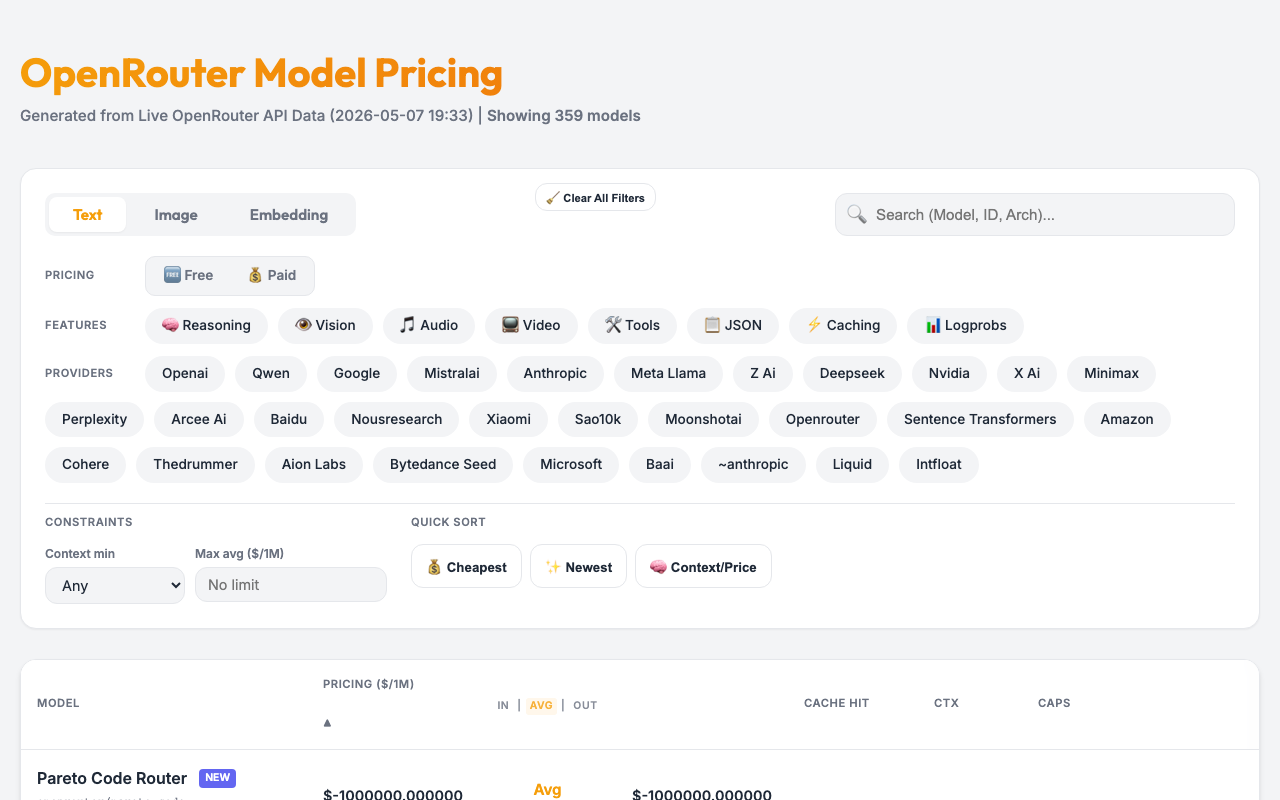
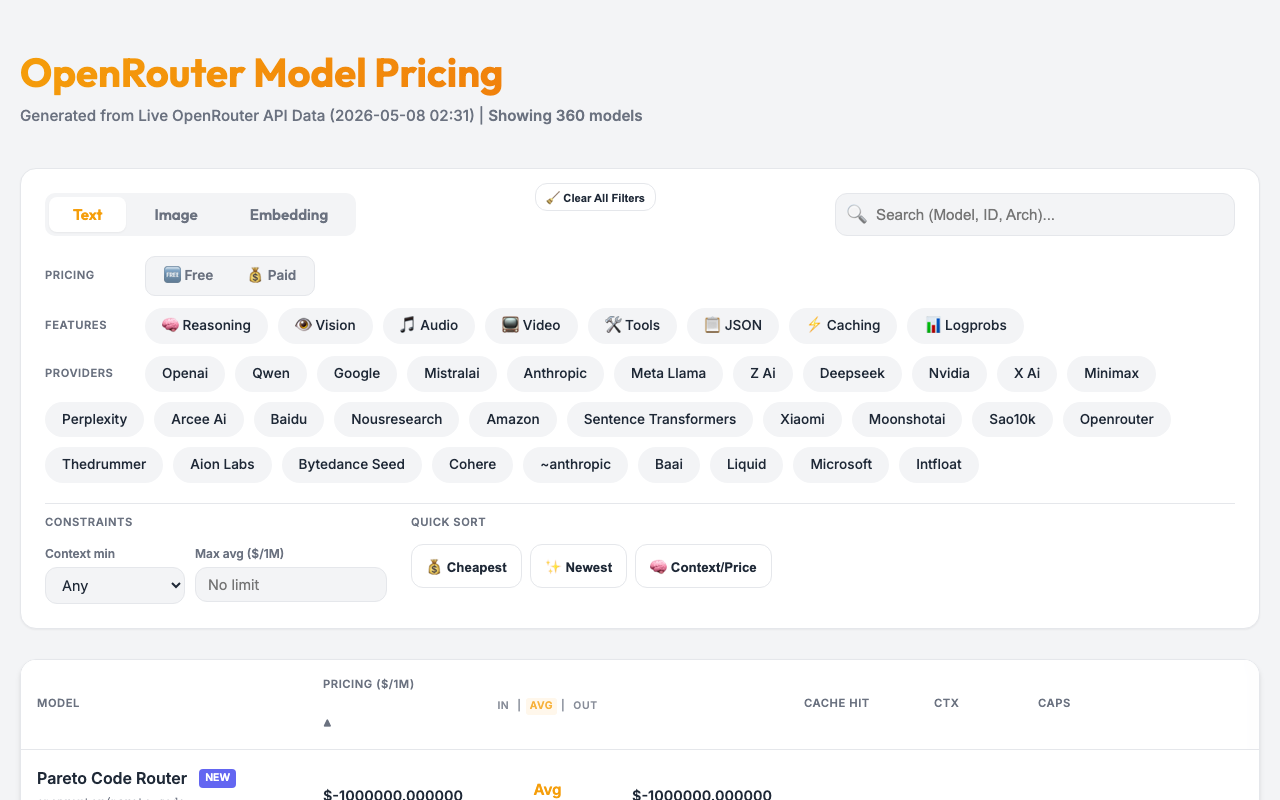
chore: automated pricing update (2026-05-08 02:30:52)
🆕 Added Models (2): google/gemini-3.1-flash-lite, inclusionai/ling-2.6-1t
❌ Removed Models (1): inclusionai/ling-2.6-1t:free
🔄 Changed Models (2): moonshotai/kimi-k2.5, qwen/qwen3.5-9b

diff --git a/docs/index.html b/docs/index.html
@@ -668,7 +668,7 @@
     <div class="container">
         <header>
             <h1>OpenRouter Model Pricing</h1>
-            <div class="meta">Generated from Live OpenRouter API Data (2026-05-07 19:33)</div>
+            <div class="meta">Generated from Live OpenRouter API Data (2026-05-08 02:31)</div>
         </header>
 
         <div class="controls">
@@ -697,7 +697,7 @@
                                 <option value="0">Any</option>
                                 <option value="32768">32k+</option>
                                 <option value="128000">125k+</option>
-                                <option value="131072">128k+</option>
+                                <option value="159744">156k+</option>
                                 <option value="262144">256k+</option>
                                 <option value="1000448">977k+</option>
                                 <option value="1048576">1M+</option>
@@ -734,6 +734,73 @@
     <script>
         window.openRouterModels = {
   "text": [
+    {
+      "id": "google/gemini-3.1-flash-lite",
+      "canonical_slug": "google/gemini-3.1-flash-lite-20260507",
+      "hugging_face_id": null,
+      "name": "Google: Gemini 3.1 Flash Lite",
+      "created": 1778168828,
+      "description": "Gemini 3.1 Flash Lite is Google\u2019s GA high-efficiency multimodal model optimized for low-latency, high-volume workloads. It supports text, image, video, audio, and PDF inputs, and is designed for lightweight agentic...",
+      "context_length": 1048576,
+      "architecture": {
+        "modality": "text+image+file+audio+video->text",
+        "input_modalities": [
+          "text",
+          "image",
+          "video",
+          "file",
+          "audio"
+        ],
+        "output_modalities": [
+          "text"
+        ],
+        "tokenizer": "Gemini",
+        "instruct_type": null
+      },
+      "pricing": {
+        "prompt": "0.00000025",
+        "completion": "0.0000015",
+        "image": "0.00000025",
+        "audio": "0.0000005",
+        "web_search": "0.014",
+        "internal_reasoning": "0.0000015",
+        "input_cache_read": "0.000000025",
+        "input_cache_write": "0.00000008333333333333334"
+      },
+      "top_provider": {
+        "context_length": 1048576,
+        "max_completion_tokens": 65536,
+        "is_moderated": false
+      },
+      "per_request_limits": null,
+      "supported_parameters": [
+        "include_reasoning",
+        "max_tokens",
+        "reasoning",
+        "response_format",
+        "seed",
+        "stop",
+        "structured_outputs",
+        "temperature",
+        "tool_choice",
+        "tools",
+        "top_p"
+      ],
+      "default_parameters": {
+        "temperature": null,
+        "top_p": null,
+        "top_k": null,
+        "frequency_penalty": null,
+        "presence_penalty": null,
+        "repetition_penalty": null
+      },
+      "supported_voices": null,
+      "knowledge_cutoff": null,
+      "expiration_date": null,
+      "links": {
+        "details": "/api/v1/models/google/gemini-3.1-flash-lite-20260507/endpoints"
+      }
+    },
     {
       "id": "baidu/cobuddy:free",
       "canonical_slug": "baidu/cobuddy-20260430",
@@ -2226,10 +2293,10 @@
       }
     },
     {
-      "id": "inclusionai/ling-2.6-1t:free",
+      "id": "inclusionai/ling-2.6-1t",
       "canonical_slug": "inclusionai/ling-2.6-1t-20260423",
       "hugging_face_id": null,
-      "name": "inclusionAI: Ling-2.6-1T (free)",
+      "name": "inclusionAI: Ling-2.6-1T",
       "created": 1776948238,
       "description": "Ling-2.6-1T is an instant (instruct) model from inclusionAI and the company\u2019s trillion-parameter flagship, designed for real-world agents that require fast execution and high efficiency at scale. It uses a \u201cfast...",
       "context_length": 262144,
@@ -2245,8 +2312,9 @@
         "instruct_type": null
       },
       "pricing": {
-        "prompt": "0",
-        "completion": "0"
+        "prompt": "0.0000003",
+        "completion": "0.0000025",
+        "input_cache_read": "0.00000006"
       },
       "top_provider": {
         "context_length": 262144,
@@ -2279,7 +2347,7 @@
       },
       "supported_voices": null,
       "knowledge_cutoff": null,
-      "expiration_date": "2026-05-07",
+      "expiration_date": null,
       "links": {
         "details": "/api/v1/models/inclusionai/ling-2.6-1t-20260423/endpoints"
       }
@@ -4232,12 +4300,12 @@
         "instruct_type": null
       },
       "pricing": {
-        "prompt": "0.0000001",
+        "prompt": "0.00000004",
         "completion": "0.00000015"
       },
       "top_provider": {
         "context_length": 262144,
-        "max_completion_tokens": null,
+        "max_completion_tokens": 81920,
         "is_moderated": false
       },
       "per_request_limits": null,
@@ -4252,6 +4320,7 @@
         "reasoning",
         "repetition_penalty",
         "response_format",
+        "seed",
         "stop",
         "structured_outputs",
         "temperature",
@@ -5942,7 +6011,6 @@
         "logprobs",
         "max_tokens",
         "min_p",
-        "parallel_tool_calls",
         "presence_penalty",
         "reasoning",
         "repetition_penalty",
@@ -22599,7 +22667,7 @@
     }
   ]
 };
-        window.providerOptions = ['openai', 'qwen', 'google', 'mistralai', 'anthropic', 'meta-llama', 'z-ai', 'deepseek', 'nvidia', 'x-ai', 'minimax', 'perplexity', 'arcee-ai', 'baidu', 'nousresearch', 'xiaomi', 'sao10k', 'moonshotai', 'openrouter', 'sentence-transformers', 'amazon', 'cohere', 'thedrummer', 'aion-labs', 'bytedance-seed', 'microsoft', 'baai', '~anthropic', 'liquid', 'intfloat', 'tencent', 'inflection', 'ibm-granite', 'inclusionai', '~google', 'thenlper', 'relace', 'poolside', 'rekaai', '~openai', 'morph', 'writer', 'anthracite-org', 'upstage', 'prime-intellect', 'cognitivecomputations', 'tngtech', 'switchpoint', 'allenai', 'deepcogito', 'gryphe', 'nex-agi', 'ai21', 'alibaba', 'alfredpros', 'kwaipilot', 'alpindale', 'stepfun', 'undi95', 'essentialai', 'inception', 'mancer', 'bytedance', '~moonshotai'];
+        window.providerOptions = ['openai', 'qwen', 'google', 'mistralai', 'anthropic', 'meta-llama', 'z-ai', 'deepseek', 'nvidia', 'x-ai', 'minimax', 'perplexity', 'arcee-ai', 'baidu', 'nousresearch', 'amazon', 'sentence-transformers', 'xiaomi', 'moonshotai', 'sao10k', 'openrouter', 'thedrummer', 'aion-labs', 'bytedance-seed', 'cohere', '~anthropic', 'baai', 'liquid', 'microsoft', 'intfloat', 'poolside', 'thenlper', 'tencent', 'ibm-granite', 'relace', 'morph', 'inflection', '~openai', 'inclusionai', '~google', 'rekaai', 'undi95', 'prime-intellect', 'ai21', 'writer', 'anthracite-org', 'alpindale', 'bytedance', 'cognitivecomputations', 'nex-agi', '~moonshotai', 'inception', 'gryphe', 'mancer', 'upstage', 'essentialai', 'switchpoint', 'stepfun', 'deepcogito', 'allenai', 'kwaipilot', 'alibaba', 'alfredpros', 'tngtech'];
         let currentTab = 'text';
         let sortKey = 'price_avg';
         let sortAsc = true;
